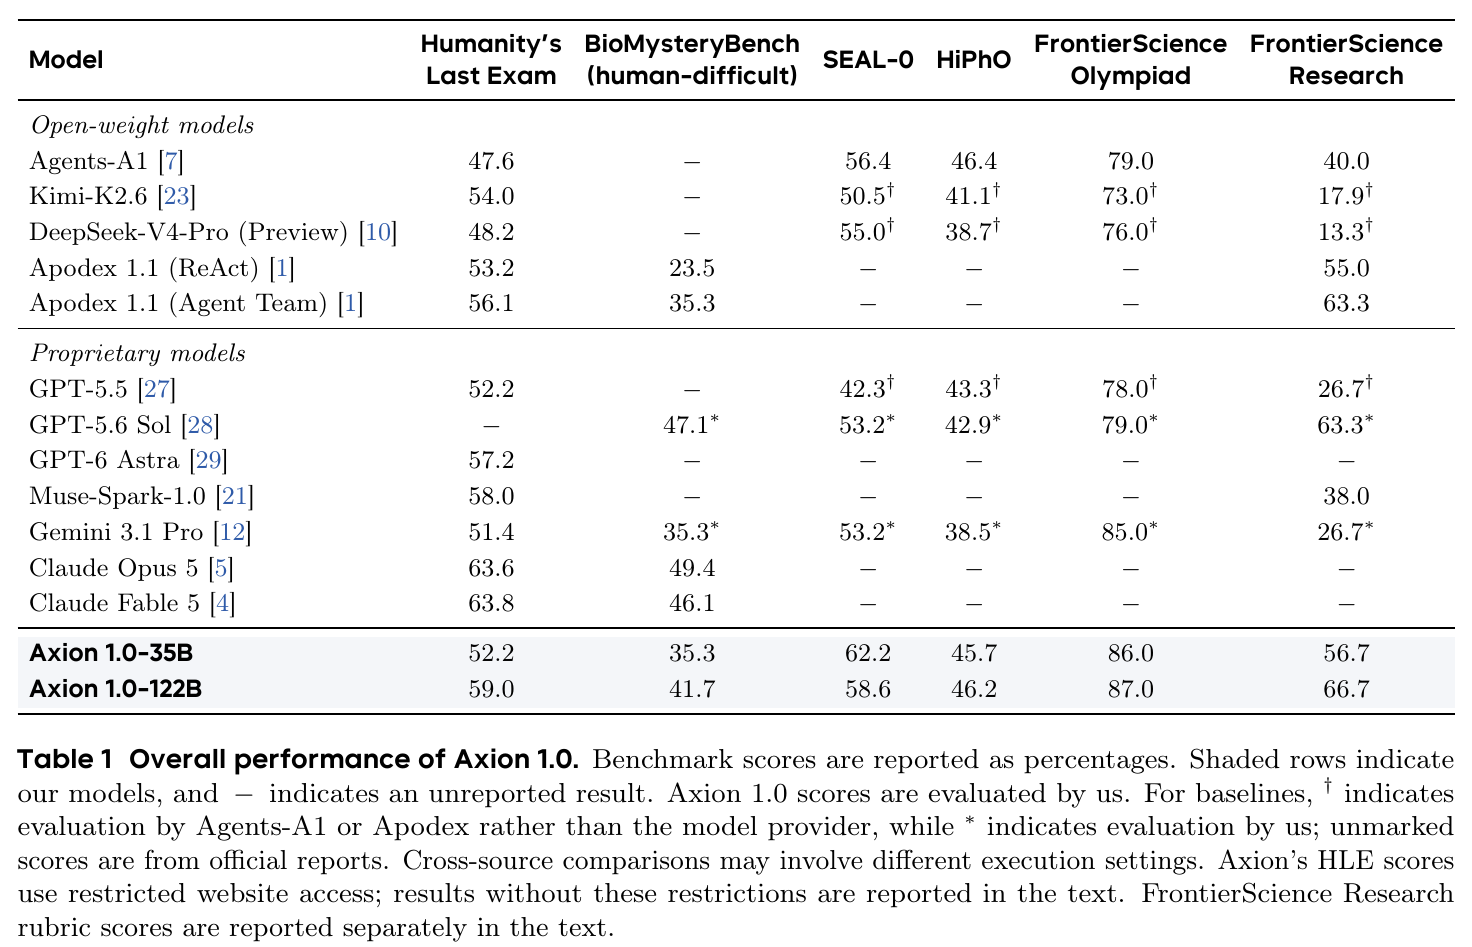
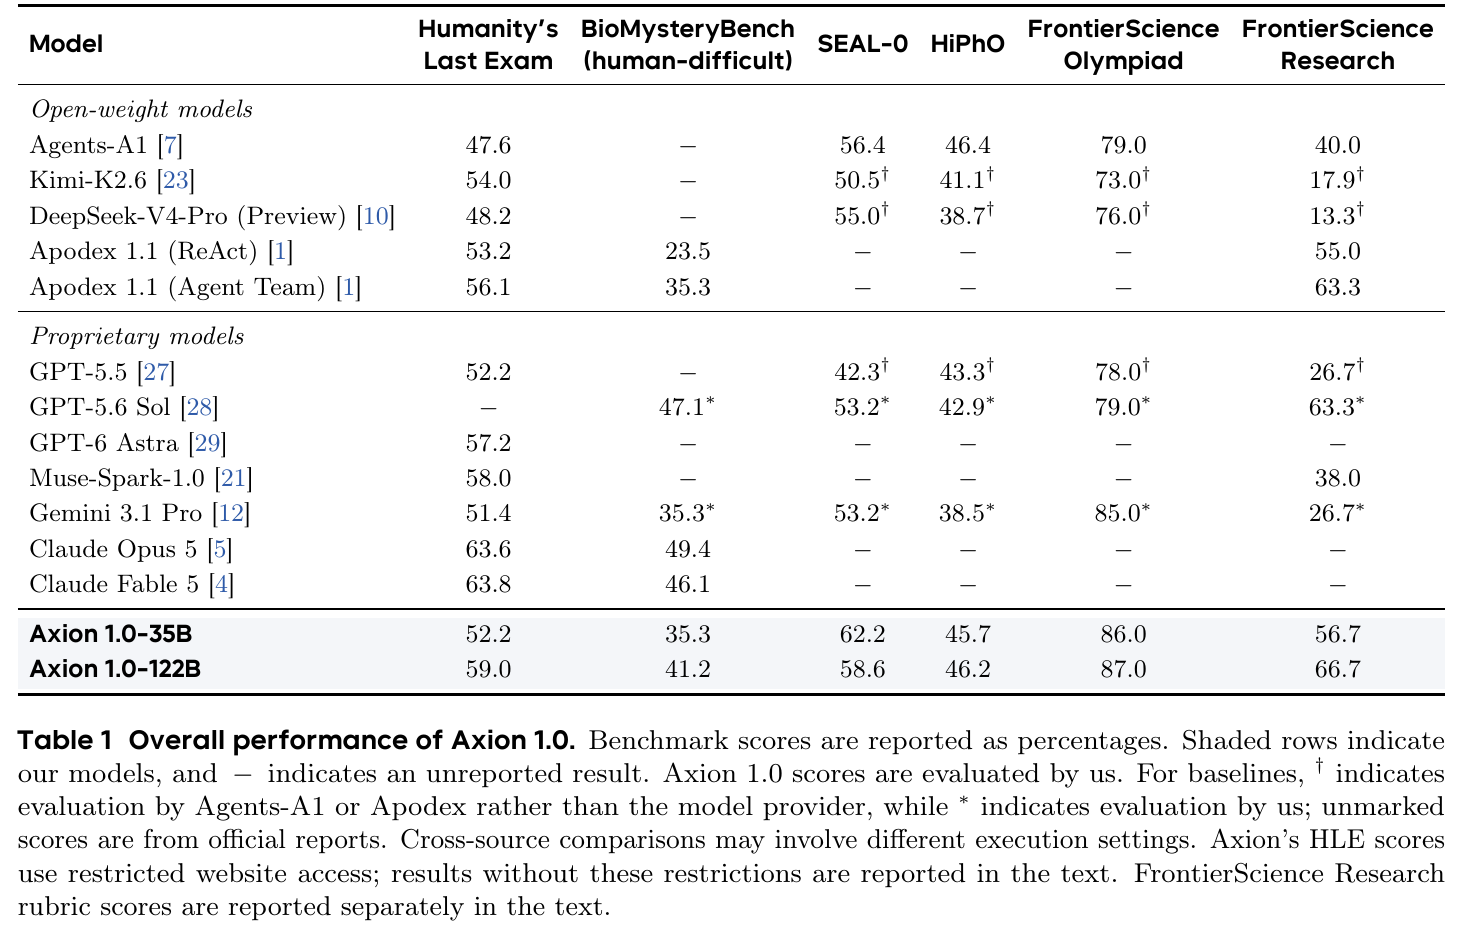
Update benchmark results

diff --git a/index.html b/index.html
@@ -7,9 +7,9 @@
 <section class="hero" id="overview"><div class="hero-top"><span class="eyebrow"><i></i> OPEN AGENT FOUNDATION MODELS</span></div><div class="hero-grid"><div><h1>Axion 1.0</h1><p class="hero-tagline">Strong agents. A simpler <em>recipe.</em></p><div class="actions"><a class="button primary" href="https://arxiv.org/abs/2611.03233" target="_blank" rel="noopener" aria-label="Read the Axion 1.0 paper (PDF)">Paper <span>↗</span></a><a class="button secondary" href="https://github.com/bytedance/axion1_0" target="_blank" rel="noopener" aria-label="View the Axion 1.0 code on GitHub">Code <span>↗</span></a><a class="button secondary" href="https://huggingface.co/datasets/Axion1-0/axion-training-data" target="_blank" rel="noopener" aria-label="View the Axion 1.0 training dataset on Hugging Face">Dataset <span>↗</span></a><a class="button secondary" href="https://huggingface.co/Axion1-0/Axion-1.0-35B" target="_blank" rel="noopener" aria-label="View the Axion 1.0-35B reproduction model on Hugging Face">Model <span>↗</span></a></div></div></div><div class="hero-bottom"><div><b>18K</b><span>training examples</span></div><div><b>35B / 122B</b><span>main MoE models</span></div><div><b>128K</b><span>SFT context window</span></div><div><b>≈1K</b><span>122B training GPU-hours</span></div></div></section>
 <div class="reading-layout"><aside aria-label="Page navigation"><button type="button" class="contents-toggle" id="contents-toggle" aria-expanded="true" aria-controls="page-contents" aria-label="Hide contents" title="Hide contents"><svg viewBox="0 0 20 20" width="18" height="18" aria-hidden="true"><path d="m8 5-5 5 5 5m8-10-5 5 5 5"/></svg></button><div id="page-contents"><span class="eyebrow">ON THIS PAGE</span><a href="#idea">01 &nbsp; The idea</a><a href="#results">02 &nbsp; Results</a><a href="#recipe">03 &nbsp; The recipe</a><a href="#systems">04 &nbsp; Built to train</a><a href="#open">05 &nbsp; Open research</a><a href="#team">06 &nbsp; The team</a><span class="aside-note">Axion 1.0<br>Open Agent Foundation<br>Models, Simplified</span></div></aside><div class="story">
 <section id="idea" class="intro-section"><div class="section-kicker">01 / THE IDEA</div><h2>Put the complexity<br>in the learning problem.</h2><p class="lead">Building a capable agent does not have to mean building an increasingly elaborate training pipeline.</p><p>Axion 1.0 follows a clear progression: learn to reason, learn to acquire missing information, then refine those capabilities through interaction. The recipe combines two lightweight supervised fine-tuning stages with reinforcement learning.</p><p>The central investment is in the data: challenging, model-aware scientific problems and tool-dependent tasks with verifiable answers. This gives the model substantive problems to learn from at each stage.</p><blockquote>A simple recipe for capable agents.</blockquote></section>
-<section id="results"><div class="section-kicker">02 / RESULTS</div><div class="section-heading"><h2>Broad capability.<br>Measurable progress.</h2><span class="small-label">SIX EVALUATION SETTINGS</span></div><p>Axion 1.0 is evaluated alongside leading open and proprietary models across scientific reasoning, information seeking, and biological data analysis.</p><div class="interactive-results"><div class="chart-controls"><p id="chart-instruction">Hover or focus on a model to highlight it across all six benchmarks. Click or tap to keep it selected.</p><button type="button" id="clear-model" disabled>Clear selection</button></div><div id="benchmark-charts" class="benchmark-charts" aria-label="Interactive benchmark comparisons"></div><p id="model-selection" class="model-selection" aria-live="polite">Blue: Axion 1.0-122B · Teal: Axion 1.0-35B · Gray: comparison models</p><a class="original-figure" href="assets/results-comparison.png?v=hle-59-0" target="_blank" rel="noopener">View original paper figure ↗</a></div><p class="figure-note">Data from the paper’s comparison figure. Scores (%), as reported in the manuscript. HLE here is the full benchmark; training-stage comparisons below use HLE-130. BMB uses the human-difficult subset. Axion scores are the best single-run scores from three runs, or five for BMB. Baseline evaluation settings may differ; see the comparison table for source notes.</p><details class="comparison"><summary>Compare with selected baselines <span>+</span></summary><div class="table-scroll"><table><caption>Selected results from the paper's overall performance table</caption><thead><tr><th>Model</th><th>HLE</th><th>BMB</th><th>SEAL-0</th><th>HiPhO</th><th>FS Olympiad</th><th>FS Research</th></tr></thead><tbody><tr><td>Agents-A1</td><td>47.6</td><td>—</td><td>56.4</td><td>46.4</td><td>79.0</td><td>40.0</td></tr><tr><td>Apodex 1.1 (ReAct)</td><td>53.2</td><td>23.5</td><td>—</td><td>—</td><td>—</td><td>55.0</td></tr><tr><td>Apodex 1.1 (Agent Team)</td><td>56.1</td><td>35.3</td><td>—</td><td>—</td><td>—</td><td>63.3</td></tr><tr><td>Gemini 3.1 Pro</td><td>51.4</td><td>35.3*</td><td>53.2*</td><td>38.5*</td><td>85.0*</td><td>26.7*</td></tr><tr class="ours"><td>Axion 1.0-35B</td><td>52.2</td><td>35.3</td><td>62.2</td><td>45.7</td><td>86.0</td><td>56.7</td></tr><tr class="ours"><td>Axion 1.0-122B</td><td>59.0</td><td>41.7</td><td>58.6</td><td>46.2</td><td>87.0</td><td>66.7</td></tr></tbody></table></div><p class="figure-note">* Evaluated by the Axion team. Other baseline scores are from official reports. Cross-source comparisons may use different tools or execution settings. A dash denotes an unreported result.</p></details></section>
+<section id="results"><div class="section-kicker">02 / RESULTS</div><div class="section-heading"><h2>Broad capability.<br>Measurable progress.</h2><span class="small-label">SIX EVALUATION SETTINGS</span></div><p>Axion 1.0 is evaluated alongside leading open and proprietary models across scientific reasoning, information seeking, and biological data analysis.</p><div class="interactive-results"><div class="chart-controls"><p id="chart-instruction">Hover or focus on a model to highlight it across all six benchmarks. Click or tap to keep it selected.</p><button type="button" id="clear-model" disabled>Clear selection</button></div><div id="benchmark-charts" class="benchmark-charts" aria-label="Interactive benchmark comparisons"></div><p id="model-selection" class="model-selection" aria-live="polite">Blue: Axion 1.0-122B · Teal: Axion 1.0-35B · Gray: comparison models</p><a class="original-figure" href="assets/results-comparison.png?v=evaluation-update" target="_blank" rel="noopener">View original paper figure ↗</a></div><p class="figure-note">Data from the paper’s comparison figure. Scores (%), as reported in the manuscript. HLE here is the full benchmark; training-stage comparisons below use HLE-130. BMB uses the human-difficult subset. Axion scores are the best single-run scores from three runs, or five for BMB. Baseline evaluation settings may differ; see the comparison table for source notes.</p><details class="comparison"><summary>Compare with selected baselines <span>+</span></summary><div class="table-scroll"><table><caption>Selected results from the paper's overall performance table</caption><thead><tr><th>Model</th><th>HLE</th><th>BMB</th><th>SEAL-0</th><th>HiPhO</th><th>FS Olympiad</th><th>FS Research</th></tr></thead><tbody><tr><td>Agents-A1</td><td>47.6</td><td>—</td><td>56.4</td><td>46.4</td><td>79.0</td><td>40.0</td></tr><tr><td>Apodex 1.1 (ReAct)</td><td>53.2</td><td>23.5</td><td>—</td><td>—</td><td>—</td><td>55.0</td></tr><tr><td>Apodex 1.1 (Agent Team)</td><td>56.1</td><td>35.3</td><td>—</td><td>—</td><td>—</td><td>63.3</td></tr><tr><td>Gemini 3.1 Pro</td><td>51.4</td><td>35.3*</td><td>53.2*</td><td>38.5*</td><td>85.0*</td><td>26.7*</td></tr><tr class="ours"><td>Axion 1.0-35B</td><td>52.2</td><td>35.3</td><td>62.2</td><td>45.7</td><td>86.0</td><td>56.7</td></tr><tr class="ours"><td>Axion 1.0-122B</td><td>59.0</td><td>41.2</td><td>58.6</td><td>46.2</td><td>87.0</td><td>66.7</td></tr></tbody></table></div><p class="figure-note">* Evaluated by the Axion team. Other baseline scores are from official reports. Cross-source comparisons may use different tools or execution settings. A dash denotes an unreported result.</p></details></section>
 <section id="recipe"><div class="section-kicker">03 / THE RECIPE</div><h2>Start with<br>the right data.</h2><p>Problem construction and trajectory collection are separate. Establish a question and a verifiable answer first; collect correct solution trajectories second.</p><figure class="pipeline"><a href="assets/web_overview.svg" target="_blank" rel="noopener" aria-label="Open full-size data construction diagram"><img src="assets/web_overview.svg?v=compact" alt="Two-stage data construction: model-aware self-contained reasoning tasks, followed by verified tool-dependent tasks" loading="lazy"></a></figure><div class="method-columns"><div><h4>Model-aware task strengthening</h4><p>Composition, parameterization, range shifts, and case analysis make problems harder in response to strategies the base model already uses successfully.</p></div><div><h4>Verifiable tool-dependent tasks</h4><p>Structured data sources establish reference answers during construction. Solvers must recover the needed evidence through tools, without direct database access.</p></div></div><div class="training-method"><h2>Three stages.<br>One continuous progression.</h2><p>No dedicated mid-training, DPO, or on-policy distillation stages. Hover or select a stage to explore its role.</p><div class="training-steps"><article tabindex="0" role="button" data-recipe-stage="0" aria-pressed="false" aria-controls="recipe-stage-detail"><div class="step-number">01<span>SFT / STAGE I</span></div><h3>Learn to reason.</h3><p>Build self-contained scientific reasoning from public seed problems, then strengthen the questions using feedback from the base model.</p><span class="step-output">Challenging problems → verified reasoning</span></article><article tabindex="0" role="button" data-recipe-stage="1" aria-pressed="false" aria-controls="recipe-stage-detail"><div class="step-number">02<span>SFT / STAGE II</span></div><h3>Learn to investigate.</h3><p>Extend reasoning to tasks that require external information. Construct questions from real data and deterministic computation, and retain verified tool-use trajectories.</p><span class="step-output">Missing information → grounded interaction</span></article><article tabindex="0" role="button" data-recipe-stage="2" aria-pressed="false" aria-controls="recipe-stage-detail"><div class="step-number">03<span>REINFORCEMENT LEARNING</span></div><h3>Learn through interaction.</h3><p>Refine long-horizon reasoning and tool use with asynchronous GRPO and session-level training across agent trajectories.</p><span class="step-output">Agent trajectories → refined behavior</span></article></div><div id="recipe-stage-detail" class="recipe-stage-detail" aria-live="polite"></div></div><div class="progress-panel"><div><span class="eyebrow">TRAINING PROGRESSION</span><h3>From base model to agent.</h3><p>Choose a benchmark, then hover or select a training stage to compare both models.</p></div><div class="progress-chart" id="progress"></div><p class="figure-note">Scores (%) from the paper’s training-stage table. HLE-130 is a 130-question text-only subset, distinct from full HLE above; BMB uses the human-difficult subset. Sequential checkpoints show training progress; they do not isolate the causal effect of individual components.</p></div></section>
 <section id="systems"><div class="section-kicker">04 / BUILT TO TRAIN</div><h2>Long trajectories.<br>Practical infrastructure.</h2><p>SFT preserves complete reasoning and tool-use trajectories within a 128K context window. RL runs asynchronously: rollout workers interact with tools while a separate trainer updates the policy.</p><div class="system-stat"><div><strong>7h 30m</strong><span>122B · two SFT stages</span><small>240 GPU-hours on 32 GPUs</small></div><div><strong>2h 48m</strong><span>35B · two SFT stages</span><small>Approximately 90 GPU-hours on 32 GPUs</small></div><div><strong>≈15h</strong><span>122B · RL</span><small>40 rollout + 16 training GPUs · 40 steps</small></div><div><strong>≈30h</strong><span>35B · RL</span><small>8 rollout + 8 training GPUs · 20 steps</small></div></div><div class="systems-list"><div><span>01</span><h4>Full trajectories for SFT</h4><p>FSDP, expert parallelism, and context parallelism support training on long interaction histories.</p></div><div><span>02</span><h4>Asynchronous agent rollouts</h4><p>Dedicated rollout and trainer pools let environment interaction and policy updates proceed concurrently.</p></div><div><span>03</span><h4>Consistency across execution</h4><p>Token-In-Token-Out preserves token IDs; rollout routing replay aligns MoE expert choices between rollout and training.</p></div></div></section>
 <section id="open" class="open-section"><div class="section-kicker">05 / OPEN RESEARCH</div><h2>An open recipe.<br>A reproducible process.</h2><p class="lead">Share the methods and code behind the training process.</p><p>Our open research materials cover data construction, prompts, training code, and the evaluation protocol.</p><div class="open-grid"><span>Data construction</span><span>Prompts</span><span>Training code</span><span>Evaluation protocol</span></div></section>
 <section id="team"><div class="section-kicker">06 / THE TEAM</div><h2>Axion 1.0</h2><p class="paper-title">Open Agent Foundation Models, Simplified</p><div class="authors">Yuqi Jia<sup>1</sup> <span>·</span> Yunjie Tian<sup>2,†</sup> <span>·</span> Jiayu Zheng<sup>2</sup><br>Yijun Liang<sup>3</sup> <span>·</span> Jingchen Sun<sup>4</sup> <span>·</span> Mengyu Zhao<sup>2</sup> <span>·</span> Di Fu<sup>2</sup></div><div class="affiliations"><span><sup>1</sup> Duke University</span><span><sup>2</sup> ByteDance</span><span><sup>3</sup> University of Maryland, College Park</span><span><sup>4</sup> University at Buffalo</span></div><p class="figure-note">† Project Lead</p><details class="abstract"><summary>Read the abstract <span>+</span></summary><p>We introduce Axion 1.0, an agent foundation model that combines strong and broad agentic capabilities with a remarkably simple training recipe. Axion 1.0 is trained in only three stages: two lightweight supervised fine-tuning stages followed by reinforcement learning, without dedicated mid-training, direct preference optimization (DPO), or on-policy distillation (OPD).</p><p>The first SFT stage develops strong self-contained reasoning through model-aware data construction. The second stage extends these capabilities to tool-dependent reasoning through diverse and automatically verifiable tasks grounded in real-world data sources and deterministic computation. Finally, reinforcement learning further strengthens long-horizon reasoning and interaction with external tools and environments.</p><p>Axion 1.0 demonstrates that strong agentic capabilities can emerge from a simple training recipe, offering a practical path for further research on agent foundation models.</p><small>Adapted from the paper’s abstract.</small></details></section>
-<div class="visitor-panel" role="region" aria-label="Visitor map"><span class="visitor-title">Visitor map</span><div class="visitor-count"><span id="visitor-total">—</span> views</div><div class="visitor-embed"><span id="visitor-map-mount" data-src="https://mapmyvisitors.com/map.js?d=uHtPDgC-O2UAsmcxhesJFNZBIjCTirc8eHrj0jPzdCk&amp;cl=ffffff&amp;w=a&amp;t=n"></span><noscript><a href="https://mapmyvisitors.com/web/1c961" target="_blank" rel="noopener"><img src="https://mapmyvisitors.com/map.png?d=uHtPDgC-O2UAsmcxhesJFNZBIjCTirc8eHrj0jPzdCk&amp;cl=ffffff&amp;t=n" alt="Visitor map and page views for Axion 1.0"></a></noscript></div></div></div></div></main><footer><a class="brand" href="#">AXION <small>1.0</small></a><span>Open Agent Foundation Models, Simplified</span><a href="#overview">Back to top ↑</a></footer><script src="app.js?v=visit-total-2"></script></body></html>
+<div class="visitor-panel" role="region" aria-label="Visitor map"><span class="visitor-title">Visitor map</span><div class="visitor-count"><span id="visitor-total">—</span> views</div><div class="visitor-embed"><span id="visitor-map-mount" data-src="https://mapmyvisitors.com/map.js?d=uHtPDgC-O2UAsmcxhesJFNZBIjCTirc8eHrj0jPzdCk&amp;cl=ffffff&amp;w=a&amp;t=n"></span><noscript><a href="https://mapmyvisitors.com/web/1c961" target="_blank" rel="noopener"><img src="https://mapmyvisitors.com/map.png?d=uHtPDgC-O2UAsmcxhesJFNZBIjCTirc8eHrj0jPzdCk&amp;cl=ffffff&amp;t=n" alt="Visitor map and page views for Axion 1.0"></a></noscript></div></div></div></div></main><footer><a class="brand" href="#">AXION <small>1.0</small></a><span>Open Agent Foundation Models, Simplified</span><a href="#overview">Back to top ↑</a></footer><script src="app.js?v=evaluation-update"></script></body></html>

diff --git a/app.js b/app.js
@@ -5,7 +5,7 @@ const modelNames={a122:'Axion 1.0-122B',a35:'Axion 1.0-35B',fable:'Claude Fable 
 const shortNames={a122:'Axion 1.0<br>122B',a35:'Axion 1.0<br>35B',fable:'Claude<br>Fable 5',opus:'Claude<br>Opus 5',muse:'Muse-<br>Spark-1.0',astra:'GPT-6<br>Astra',apoteam:'Apodex 1.1<br>Agent Team',aporen:'Apodex 1.1<br>ReAct',sol:'GPT-5.6<br>Sol',g55:'GPT-5.5',gemini:'Gemini<br>3.1 Pro',agents:'Agents-<br>A1',deep:'DeepSeek-V4<br>Pro Preview',kimi:'Kimi-<br>K2.6'};
 const chartData=[
  {name:'Humanity’s Last Exam',subtitle:'General reasoning and search',min:35,values:[['fable',63.8],['opus',63.6],['a122',59.0],['muse',58],['astra',57.2],['apoteam',56.1],['a35',52.2]]},
- {name:'BioMysteryBench',subtitle:'Scientific research / human-difficult',values:[['opus',49.4],['sol',47.1],['fable',46.1],['a122',41.7],['a35',35.3],['apoteam',35.3],['gemini',35.3]]},
+ {name:'BioMysteryBench',subtitle:'Scientific research / human-difficult',values:[['opus',49.4],['sol',47.1],['fable',46.1],['a122',41.2],['a35',35.3],['apoteam',35.3],['gemini',35.3]]},
  {name:'SEAL-0',subtitle:'Agentic problem solving',values:[['a35',62.2],['a122',58.6],['agents',56.4],['deep',55],['gemini',53.2],['sol',53.2],['kimi',50.5]]},
  {name:'HiPhO',subtitle:'Scientific reasoning',values:[['agents',46.4],['a122',46.2],['a35',45.7],['g55',43.3],['sol',42.9],['kimi',41.1],['deep',38.7]]},
  {name:'FrontierScience Olympiad',subtitle:'Scientific olympiad',values:[['a122',87],['a35',86],['gemini',85],['agents',79],['sol',79],['g55',78],['deep',76]]},
@@ -23,8 +23,8 @@ clearButton.addEventListener('click',()=>{pinnedModel=null;highlightModel(null)}
 // Scores transcribed from the manuscript's training-stage table.
 const stageBenchmarks=[
  {name:'HLE-130',note:'130-question text-only subset',a:[47.7,59.2,66.2,70.0],b:[40.8,68.5,68.5,74.6]},
- {name:'BioMysteryBench',note:'Human-difficult subset',a:[23.5,17.6,35.3,35.3],b:[17.6,29.4,35.3,41.7]},
- {name:'SEAL-0',note:'Information seeking',a:[44.1,50.5,53.2,62.2],b:[47.8,52.3,53.2,58.6]},
+ {name:'BioMysteryBench',note:'Human-difficult subset',a:[23.5,17.6,35.3,35.3],b:[17.6,29.4,35.3,41.2]},
+ {name:'SEAL-0',note:'Information seeking',a:[44.1,50.5,53.2,62.2],b:[47.7,52.3,53.2,58.6]},
  {name:'HiPhO',note:'Full benchmark',a:[38.6,45.9,46.8,45.7],b:[30.6,45.6,45.8,46.2]},
  {name:'FrontierScience Olympiad',note:'Olympiad split',a:[71.0,83.0,84.0,86.0],b:[65.0,85.0,86.0,87.0]},
  {name:'FrontierScience Research',note:'Research split',a:[26.7,48.3,58.3,56.7],b:[40.0,56.7,65.0,66.7]}
